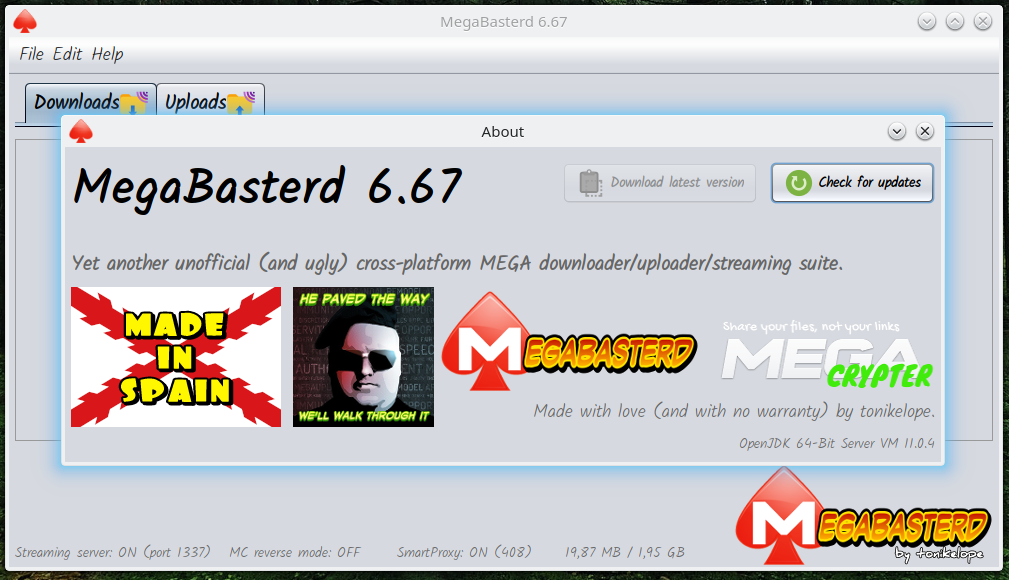
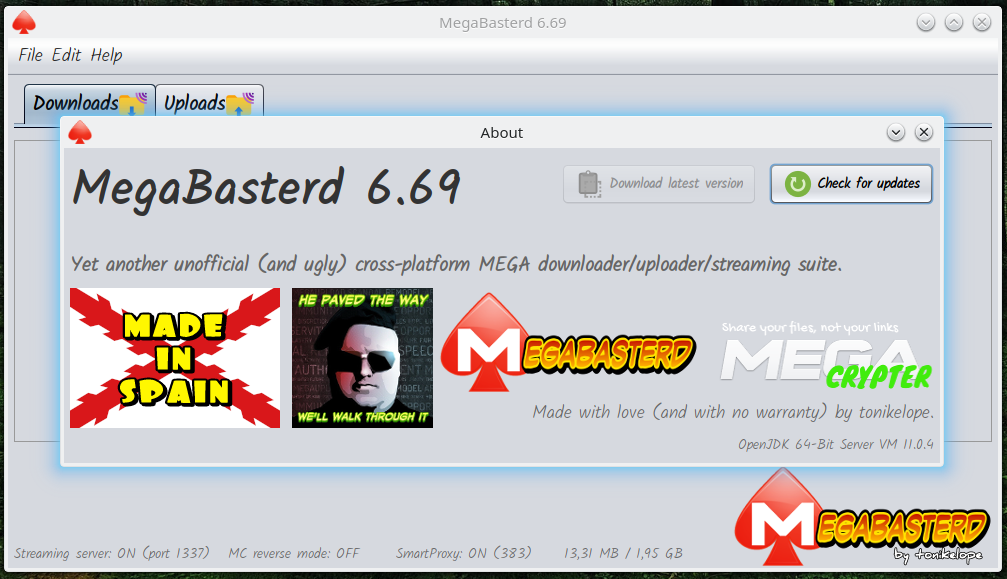
6.69
-More timeouts tunning
-Check old version fix

diff --git a/src/main/java/com/tonikelope/megabasterd/ChunkUploader.java b/src/main/java/com/tonikelope/megabasterd/ChunkUploader.java
@@ -23,8 +23,7 @@ import javax.crypto.CipherInputStream;
  */
 public class ChunkUploader implements Runnable, SecureSingleThreadNotifiable {
 
-    public static final int MAX_CHUNK_ERROR = 100;
-    public static final int READ_TIMEOUT_RETRY = 3;
+    public static final int MAX_CHUNK_ERROR = 50;
     private static final Logger LOG = Logger.getLogger(ChunkUploader.class.getName());
     private final int _id;
     private final Upload _upload;
@@ -170,6 +169,8 @@ public class ChunkUploader implements Runnable, SecureSingleThreadNotifiable {
 
                 boolean chunk_error = true;
 
+                boolean timeout = false;
+
                 try {
 
                     if (!_exit && !_upload.isStopped()) {
@@ -213,54 +214,39 @@ public class ChunkUploader implements Runnable, SecureSingleThreadNotifiable {
                                     _upload.getView().printStatusNormal("Waiting for completion handler ... ***DO NOT EXIT MEGABASTERD NOW***");
                                 }
 
-                                if (chunk_offset + chunk_size == _upload.getFile_size()) {
-                                    LOG.log(Level.INFO, "{0} Worker {1} {2} waiting for completion handler...", new Object[]{Thread.currentThread().getName(), _id, _upload.getFile_name()});
+                                String httpresponse;
 
-                                    String httpresponse = null;
+                                try (InputStream is = con.getInputStream(); ByteArrayOutputStream byte_res = new ByteArrayOutputStream()) {
 
-                                    try (InputStream is = con.getInputStream(); ByteArrayOutputStream byte_res = new ByteArrayOutputStream()) {
-
-                                        int retry_timeout = 0;
-
-                                        do {
-                                            try {
-
-                                                if ((reads = is.read(buffer)) != -1) {
-                                                    byte_res.write(buffer, 0, reads);
-                                                }
-                                            } catch (SocketTimeoutException timeout_exception) {
-                                                LOG.log(Level.WARNING, timeout_exception.getMessage());
-                                                retry_timeout++;
-                                            }
-
-                                        } while (reads != -1 && retry_timeout <= READ_TIMEOUT_RETRY);
-
-                                        if (retry_timeout <= READ_TIMEOUT_RETRY) {
-                                            httpresponse = new String(byte_res.toByteArray(), "UTF-8");
-                                        }
+                                    while ((reads = is.read(buffer)) != -1) {
+                                        byte_res.write(buffer, 0, reads);
                                     }
 
-                                    if (httpresponse.length() > 0) {
+                                    httpresponse = new String(byte_res.toByteArray(), "UTF-8");
+                                }
 
-                                        if (MegaAPI.checkMEGAError(httpresponse) != 0) {
+                                if (httpresponse.length() > 0) {
 
-                                            LOG.log(Level.WARNING, "{0} Worker {1} UPLOAD FAILED! (MEGA ERROR: {2}) {3}", new Object[]{Thread.currentThread().getName(), _id, MegaAPI.checkMEGAError(httpresponse), _upload.getFile_name()});
+                                    if (MegaAPI.checkMEGAError(httpresponse) != 0) {
 
-                                            fatal_error = true;
+                                        LOG.log(Level.WARNING, "{0} Worker {1} UPLOAD FAILED! (MEGA ERROR: {2}) {3}", new Object[]{Thread.currentThread().getName(), _id, MegaAPI.checkMEGAError(httpresponse), _upload.getFile_name()});
 
-                                        } else {
+                                        fatal_error = true;
 
-                                            LOG.log(Level.INFO, "{0} Worker {1} Completion handler -> {2} {3}", new Object[]{Thread.currentThread().getName(), _id, httpresponse, _upload.getFile_name()});
+                                    } else {
 
-                                            _upload.setCompletion_handler(httpresponse);
+                                        LOG.log(Level.INFO, "{0} Worker {1} Completion handler -> {2} {3}", new Object[]{Thread.currentThread().getName(), _id, httpresponse, _upload.getFile_name()});
 
-                                            chunk_error = false;
-                                        }
+                                        _upload.setCompletion_handler(httpresponse);
+
+                                        chunk_error = false;
                                     }
 
-                                } else {
+                                } else if (_upload.getProgress() != _upload.getFile_size() || _upload.getCompletion_handler() != null) {
+
                                     chunk_error = false;
                                 }
+
                             }
 
                         }
@@ -272,7 +258,13 @@ public class ChunkUploader implements Runnable, SecureSingleThreadNotifiable {
 
                 } catch (IOException ex) {
 
-                    LOG.log(Level.SEVERE, ex.getMessage());
+                    if (ex instanceof SocketTimeoutException) {
+                        timeout = true;
+                        LOG.log(Level.SEVERE, "{0} Worker {1} {2} timeout reading chunk {3}", new Object[]{Thread.currentThread().getName(), _id, _upload.getFile_name(), chunk_id});
+
+                    } else {
+                        LOG.log(Level.SEVERE, ex.getMessage());
+                    }
 
                 } finally {
 
@@ -301,7 +293,7 @@ public class ChunkUploader implements Runnable, SecureSingleThreadNotifiable {
 
                             LOG.log(Level.SEVERE, "UPLOAD FAILED: too many errors {0}", new Object[]{_upload.getFile_name()});
 
-                        } else if (!_exit && !_upload.isStopped()) {
+                        } else if (!_exit && !_upload.isStopped() && !timeout) {
 
                             _error_wait = true;
 

diff --git a/src/main/java/com/tonikelope/megabasterd/MainPanel.java b/src/main/java/com/tonikelope/megabasterd/MainPanel.java
@@ -53,7 +53,7 @@ import javax.swing.UIManager;
  */
 public final class MainPanel {
 
-    public static final String VERSION = "6.67";
+    public static final String VERSION = "6.69";
     public static final int THROTTLE_SLICE_SIZE = 16 * 1024;
     public static final int DEFAULT_BYTE_BUFFER_SIZE = 16 * 1024;
     public static final int STREAMER_PORT = 1337;
@@ -877,11 +877,19 @@ public final class MainPanel {
 
         try {
 
-            if (!new File(System.getProperty("user.home") + "/.megabasterd" + MainPanel.VERSION + "/.old_version_check").canRead()) {
+            if (!new File(System.getProperty("user.home") + "/.megabasterd" + MainPanel.VERSION + "/.old_version_check").exists()) {
 
                 new File(System.getProperty("user.home") + "/.megabasterd" + MainPanel.VERSION + "/.old_version_check").createNewFile();
 
                 File directory = new File(System.getProperty("user.home"));
+
+                String version_major = findFirstRegex("([0-9]+)\\.[0-9]+$", VERSION, 1);
+
+                String version_minor = findFirstRegex("[0-9]+\\.([0-9]+)$", VERSION, 1);
+
+                String old_version_major = null;
+
+                String old_version_minor = null;
 
                 String old_version = "0.0";
 
@@ -894,14 +902,14 @@ public final class MainPanel {
                 for (File file : directory.listFiles()) {
 
                     try {
-                        if (file.isDirectory() && file.canRead() && file.getName().startsWith(".megabasterd")) {
+                        if (file.isDirectory() && file.canRead() && file.getName().startsWith(".megabasterd") && !file.getName().endsWith("backups")) {
 
                             String current_dir_version = MiscTools.findFirstRegex("[0-9.]+$", file.getName(), 0);
 
                             if (current_dir_version != null && !current_dir_version.equals(VERSION)) {
 
-                                String old_version_major = findFirstRegex("([0-9]+)\\.[0-9]+$", old_version, 1);
-                                String old_version_minor = findFirstRegex("[0-9]+\\.([0-9]+)$", old_version, 1);
+                                old_version_major = findFirstRegex("([0-9]+)\\.[0-9]+$", old_version, 1);
+                                old_version_minor = findFirstRegex("[0-9]+\\.([0-9]+)$", old_version, 1);
 
                                 String current_dir_major = findFirstRegex("([0-9]+)\\.[0-9]+$", current_dir_version, 1);
                                 String current_dir_minor = findFirstRegex("[0-9]+\\.([0-9]+)$", current_dir_version, 1);
@@ -910,7 +918,7 @@ public final class MainPanel {
                                     old_version = current_dir_version;
                                 }
 
-                                Files.move(Paths.get(file.getAbsolutePath()), Paths.get(old_backups_dir.getAbsolutePath() + "/" + file.getName()));
+                                Files.move(Paths.get(file.getAbsolutePath()), Paths.get(old_backups_dir.getAbsolutePath() + "/" + file.getName()), StandardCopyOption.REPLACE_EXISTING);
                             }
 
                         }
@@ -919,7 +927,7 @@ public final class MainPanel {
 
                 }
 
-                if (!old_version.equals("0.0")) {
+                if (!old_version.equals("0.0") && (Integer.parseInt(version_major) > Integer.parseInt(old_version_major) || (Integer.parseInt(version_major) == Integer.parseInt(old_version_major) && Integer.parseInt(version_minor) > Integer.parseInt(old_version_minor)))) {
                     Object[] options = {"No",
                         LabelTranslatorSingleton.getInstance().translate("Yes")};
 

diff --git a/src/main/java/com/tonikelope/megabasterd/ChunkDownloader.java b/src/main/java/com/tonikelope/megabasterd/ChunkDownloader.java
@@ -113,7 +113,7 @@ public class ChunkDownloader implements Runnable, SecureSingleThreadNotifiable {
 
             int http_error = 0, http_status = -1, conta_error = 0;
 
-            boolean chunk_error = false, slow_proxy = false, turbo_mode = false;
+            boolean chunk_error = false, slow_proxy = false, turbo_mode = false, timeout = false;
 
             String worker_url = null;
 
@@ -302,8 +302,14 @@ public class ChunkDownloader implements Runnable, SecureSingleThreadNotifiable {
                                                 }
 
                                             } catch (SocketTimeoutException timeout_exception) {
-                                                LOG.log(Level.WARNING, timeout_exception.getMessage());
-                                                retry_timeout++;
+
+                                                if (++retry_timeout > READ_TIMEOUT_RETRY) {
+
+                                                    throw timeout_exception;
+
+                                                } else {
+                                                    LOG.log(Level.WARNING, "{0} Worker [{1}] TIMEOUT reading chunk [{2}]! {3}", new Object[]{Thread.currentThread().getName(), _id, chunk_id, _download.getFile_name()});
+                                                }
                                             }
 
                                         } while (!_exit && !_download.isStopped() && !_download.getChunkmanager().isExit() && chunk_reads < chunk_size && reads != -1 && retry_timeout <= READ_TIMEOUT_RETRY);
@@ -378,7 +384,13 @@ public class ChunkDownloader implements Runnable, SecureSingleThreadNotifiable {
 
                 } catch (IOException ex) {
 
-                    LOG.log(Level.SEVERE, ex.getMessage());
+                    if (ex instanceof SocketTimeoutException) {
+                        timeout = true;
+                        LOG.log(Level.WARNING, "{0} Worker [{1}] TIMEOUT downloading chunk [{2}]! {3}", new Object[]{Thread.currentThread().getName(), _id, chunk_id, _download.getFile_name()});
+
+                    } else {
+                        LOG.log(Level.SEVERE, ex.getMessage());
+                    }
 
                 } finally {
 
@@ -397,7 +409,7 @@ public class ChunkDownloader implements Runnable, SecureSingleThreadNotifiable {
                             _download.getProgress_meter().secureNotify();
                         }
 
-                        if (!_exit && !_download.isStopped() && (http_error != 509 || _current_smart_proxy != null) && http_error != 403 && http_error != 503) {
+                        if (!_exit && !_download.isStopped() && !timeout && (http_error != 509 || _current_smart_proxy != null) && http_error != 403 && http_error != 503) {
 
                             _error_wait = true;
 

diff --git a/src/main/java/com/tonikelope/megabasterd/ChunkDownloaderMono.java b/src/main/java/com/tonikelope/megabasterd/ChunkDownloaderMono.java
@@ -40,7 +40,7 @@ public class ChunkDownloaderMono extends ChunkDownloader {
 
             String worker_url = null;
             int http_error = 0, http_status = 0, conta_error = 0;
-            boolean chunk_error = false;
+            boolean chunk_error = false, timeout = false;
             long chunk_id, bytes_downloaded = getDownload().getProgress();
             byte[] byte_file_key = initMEGALinkKey(getDownload().getFile_key());
             byte[] byte_iv = initMEGALinkKeyIV(getDownload().getFile_key());
@@ -100,6 +100,8 @@ public class ChunkDownloaderMono extends ChunkDownloader {
 
                     chunk_error = true;
 
+                    timeout = false;
+
                     http_error = 0;
 
                     if (http_status != 200) {
@@ -153,9 +155,14 @@ public class ChunkDownloaderMono extends ChunkDownloader {
 
                                     }
                                 } catch (SocketTimeoutException timeout_exception) {
-                                    LOG.log(Level.WARNING, timeout_exception.getMessage());
 
-                                    retry_timeout++;
+                                    if (++retry_timeout > READ_TIMEOUT_RETRY) {
+
+                                        throw timeout_exception;
+
+                                    } else {
+                                        LOG.log(Level.SEVERE, "{0} TIMEOUT reading chunk {1}", new Object[]{Thread.currentThread().getName(), chunk_id});
+                                    }
                                 }
 
                             } while (!getDownload().isStopped() && chunk_reads < chunk_size && reads != -1 && retry_timeout <= READ_TIMEOUT_RETRY);
@@ -177,7 +184,12 @@ public class ChunkDownloaderMono extends ChunkDownloader {
 
                 } catch (IOException ex) {
 
-                    LOG.log(Level.SEVERE, ex.getMessage());
+                    if (ex instanceof SocketTimeoutException) {
+                        timeout = true;
+                        LOG.log(Level.SEVERE, "{0} TIMEOUT downloading chunk {1}", new Object[]{Thread.currentThread().getName(), chunk_id});
+                    } else {
+                        LOG.log(Level.SEVERE, ex.getMessage());
+                    }
 
                 } finally {
 
@@ -191,7 +203,7 @@ public class ChunkDownloaderMono extends ChunkDownloader {
                             getDownload().getProgress_meter().secureNotify();
                         }
 
-                        if (!isExit() && !getDownload().isStopped() && http_error != 403) {
+                        if (!isExit() && !getDownload().isStopped() && !timeout && http_error != 403) {
 
                             setError_wait(true);
 
